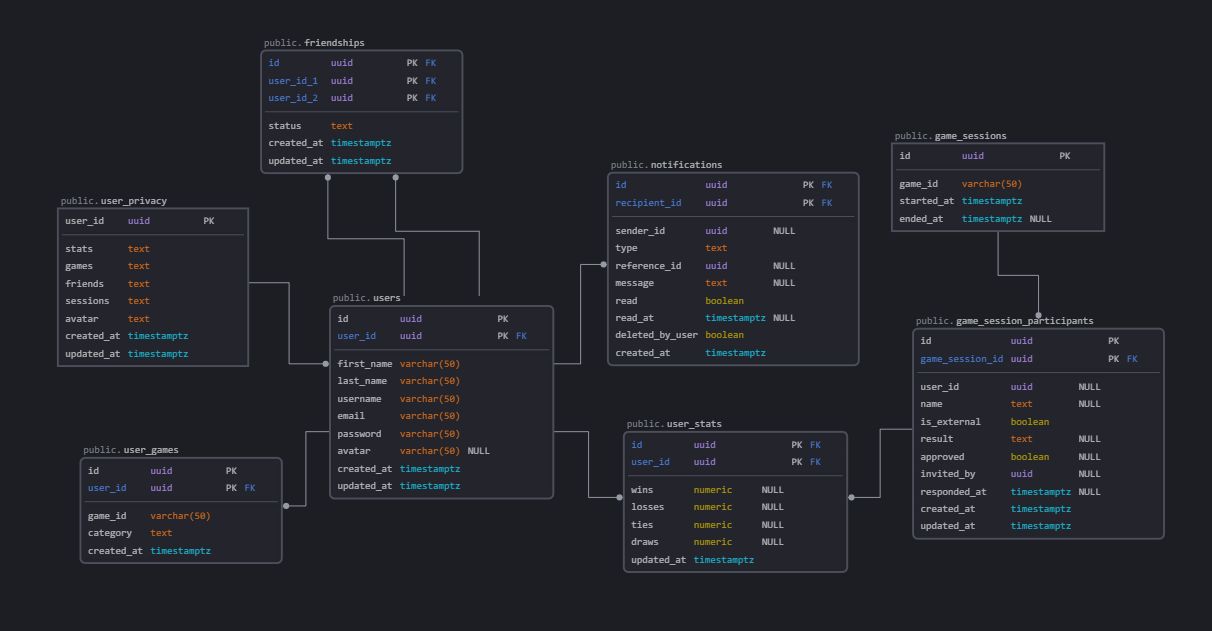
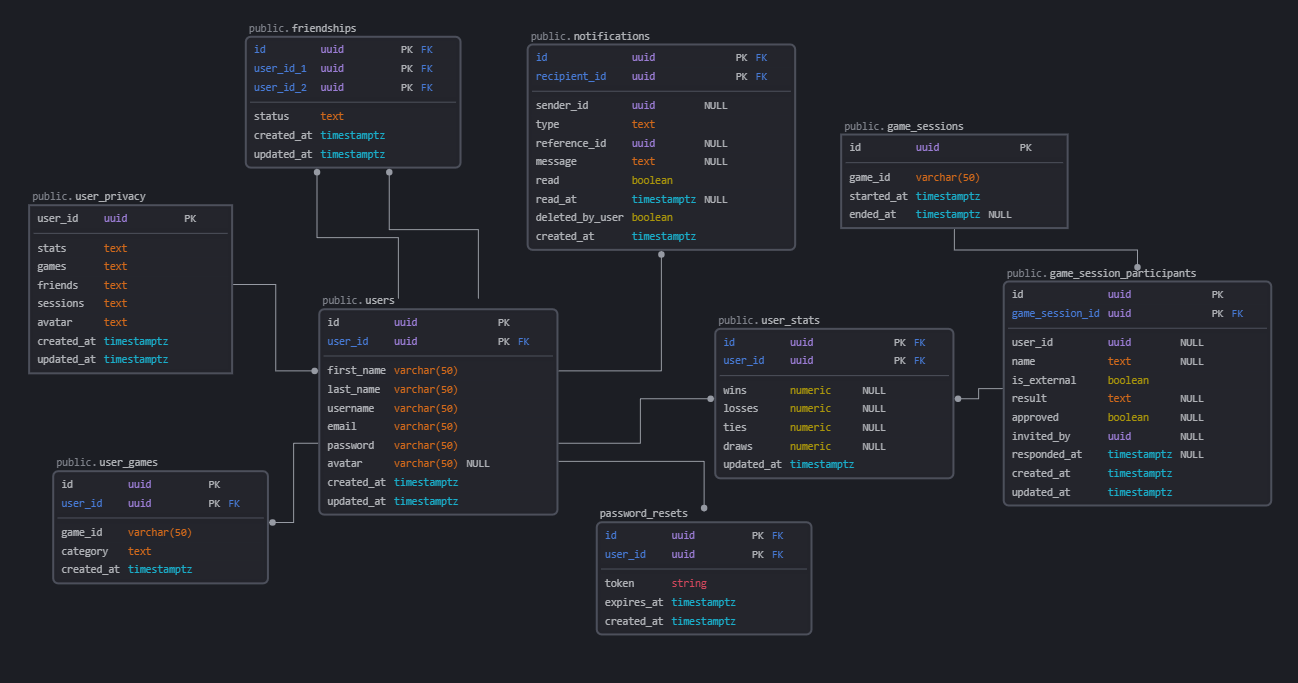
add password resets table

diff --git a/server/db/migrations/20250612000022_password_resets_table.ts b/server/db/migrations/20250612000022_password_resets_table.ts
@@ -1,0 +1,15 @@
+import { Knex } from 'knex';
+
+export async function up(knex: Knex): Promise<void> {
+    await knex.schema.createTable('password_resets', (table) => {
+        table.uuid('id').primary();
+        table.uuid('user_id').notNullable().references('id').inTable('users').onDelete('CASCADE');
+        table.string('token').notNullable().unique();
+        table.timestamp('expires_at').notNullable();
+        table.timestamp('created_at').defaultTo(knex.fn.now());
+    });
+}
+
+export async function down(knex: Knex): Promise<void> {
+    await knex.schema.dropTableIfExists('password_resets');
+}

diff --git a/README.md b/README.md
@@ -11,12 +11,13 @@ A board game stats app with a social component, mobile and web friendly. A great
 * React
 * Webpack
 * Tamagui
-*
+* `zxcvbn` for password strength checking
 
 #### Mobile
 
 * React Native
 * Tamagui
+* `zxcvbn` for password strength checking
 
 #### Backend
 
